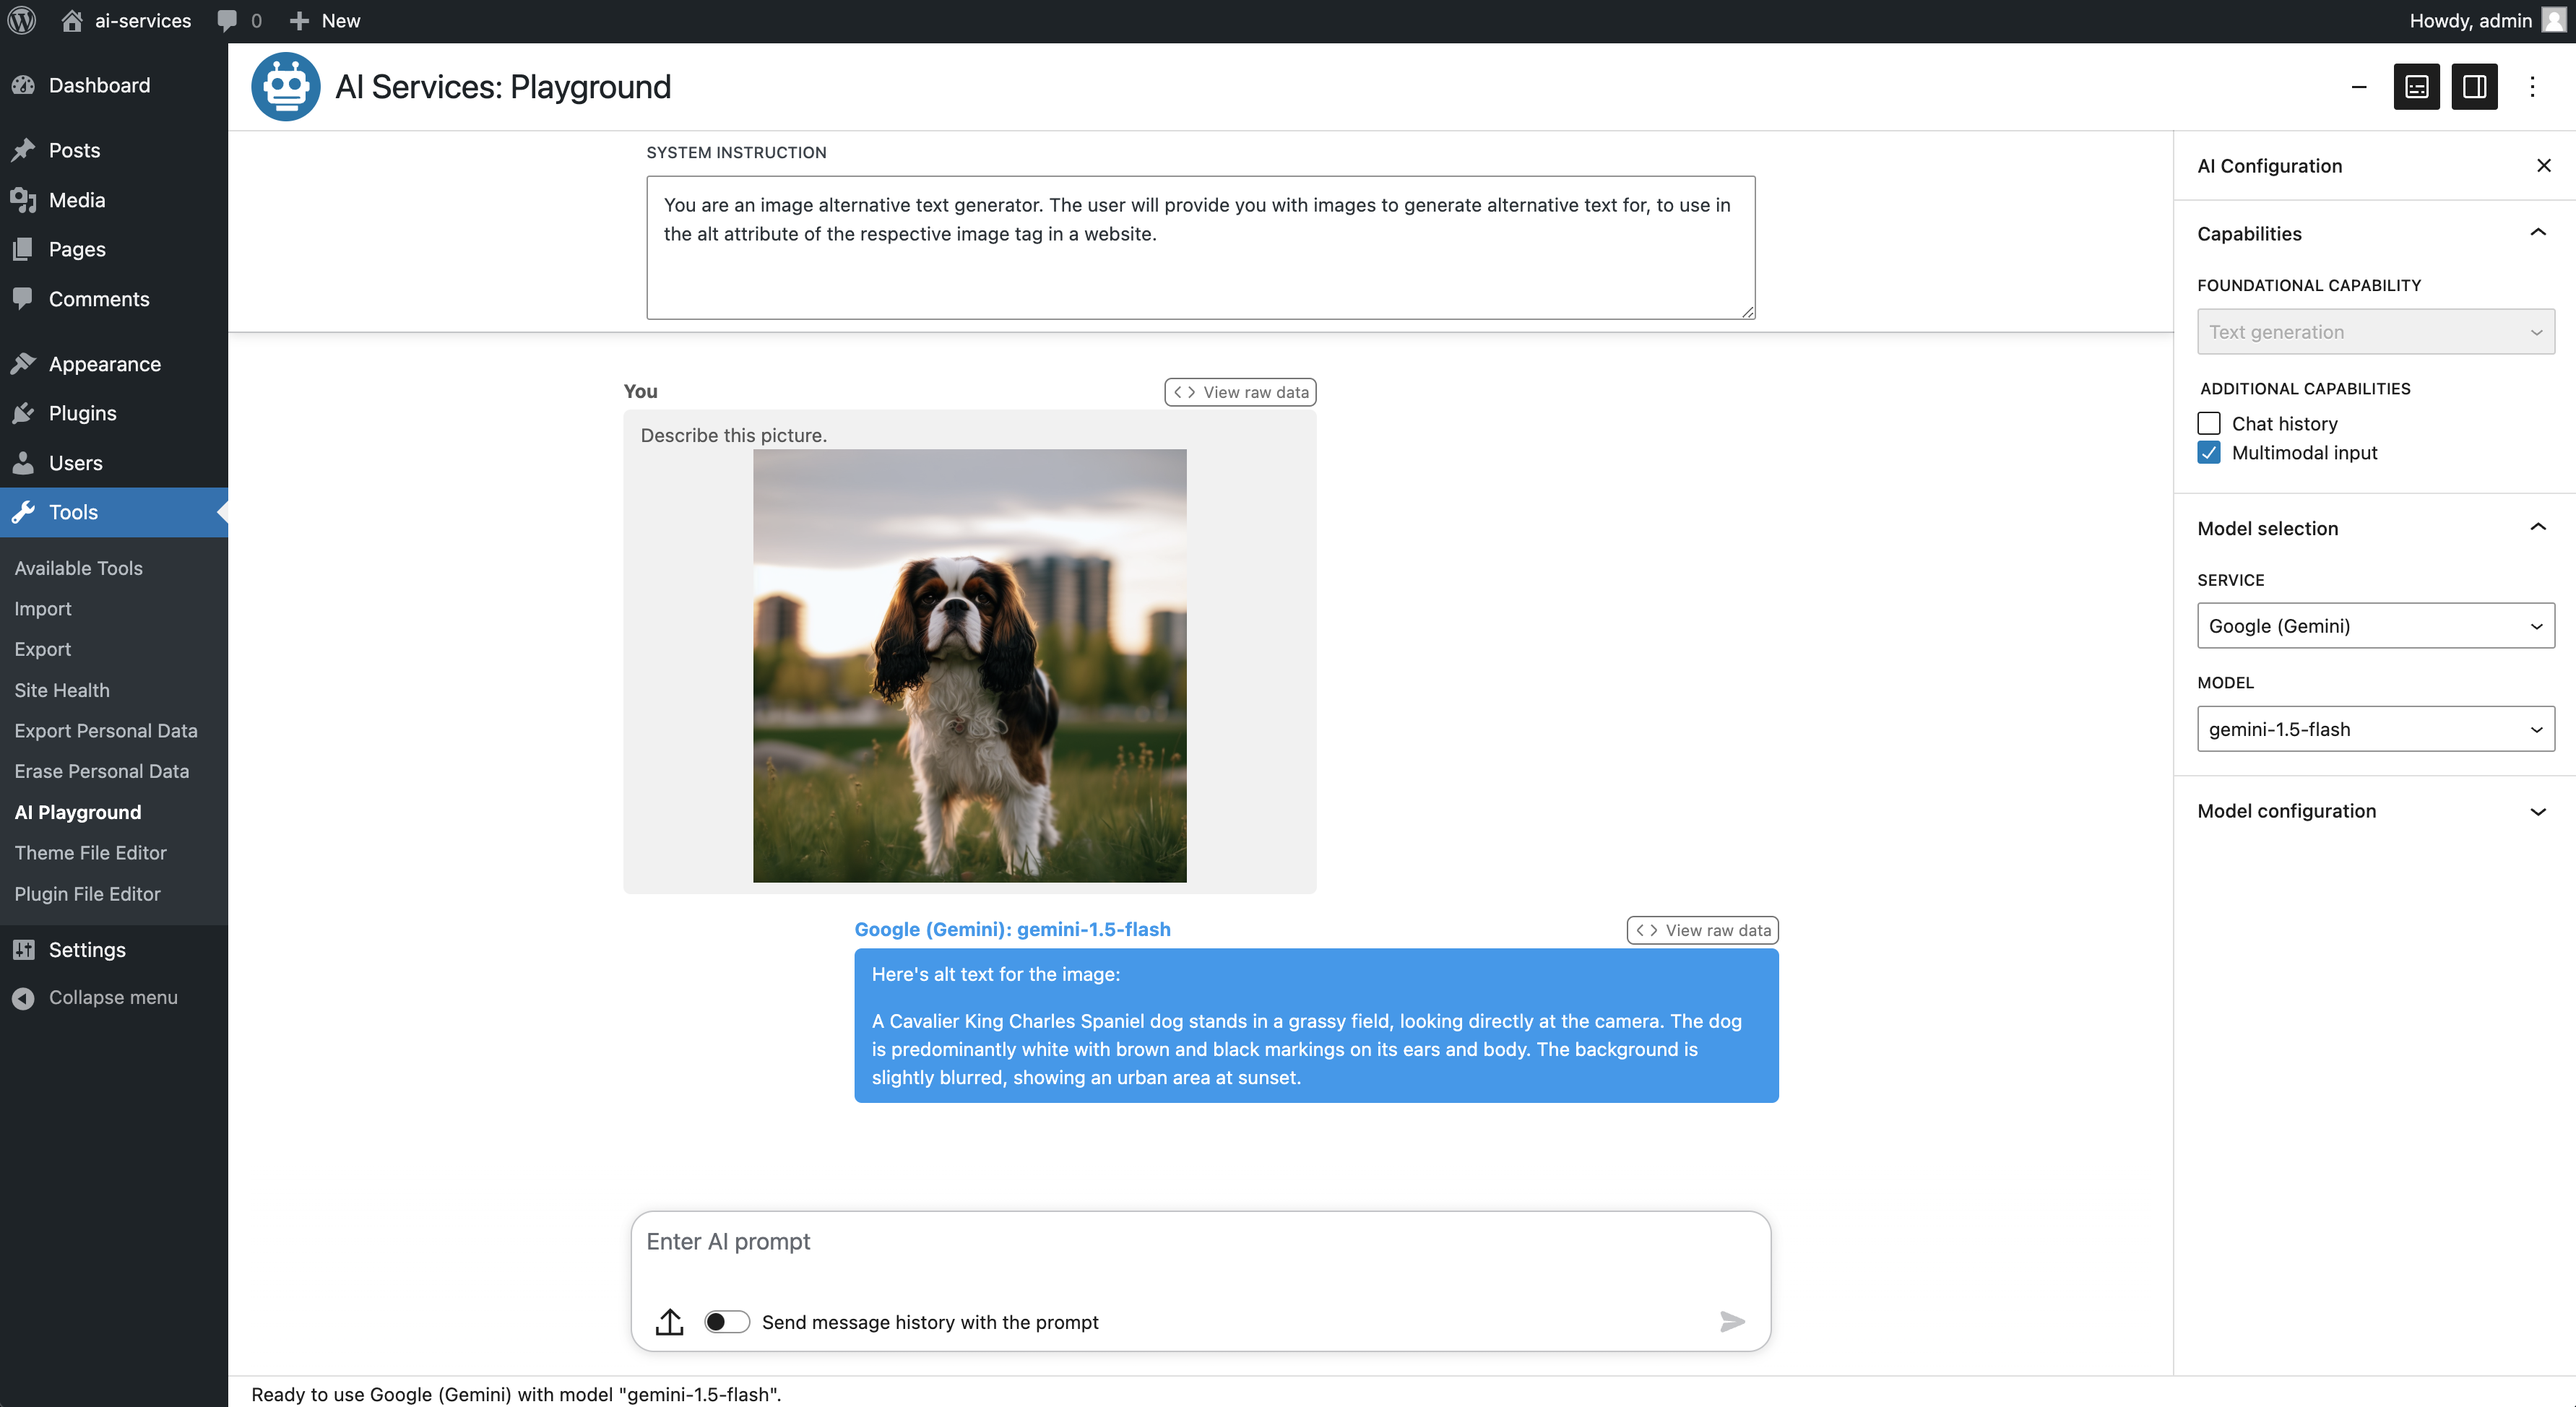
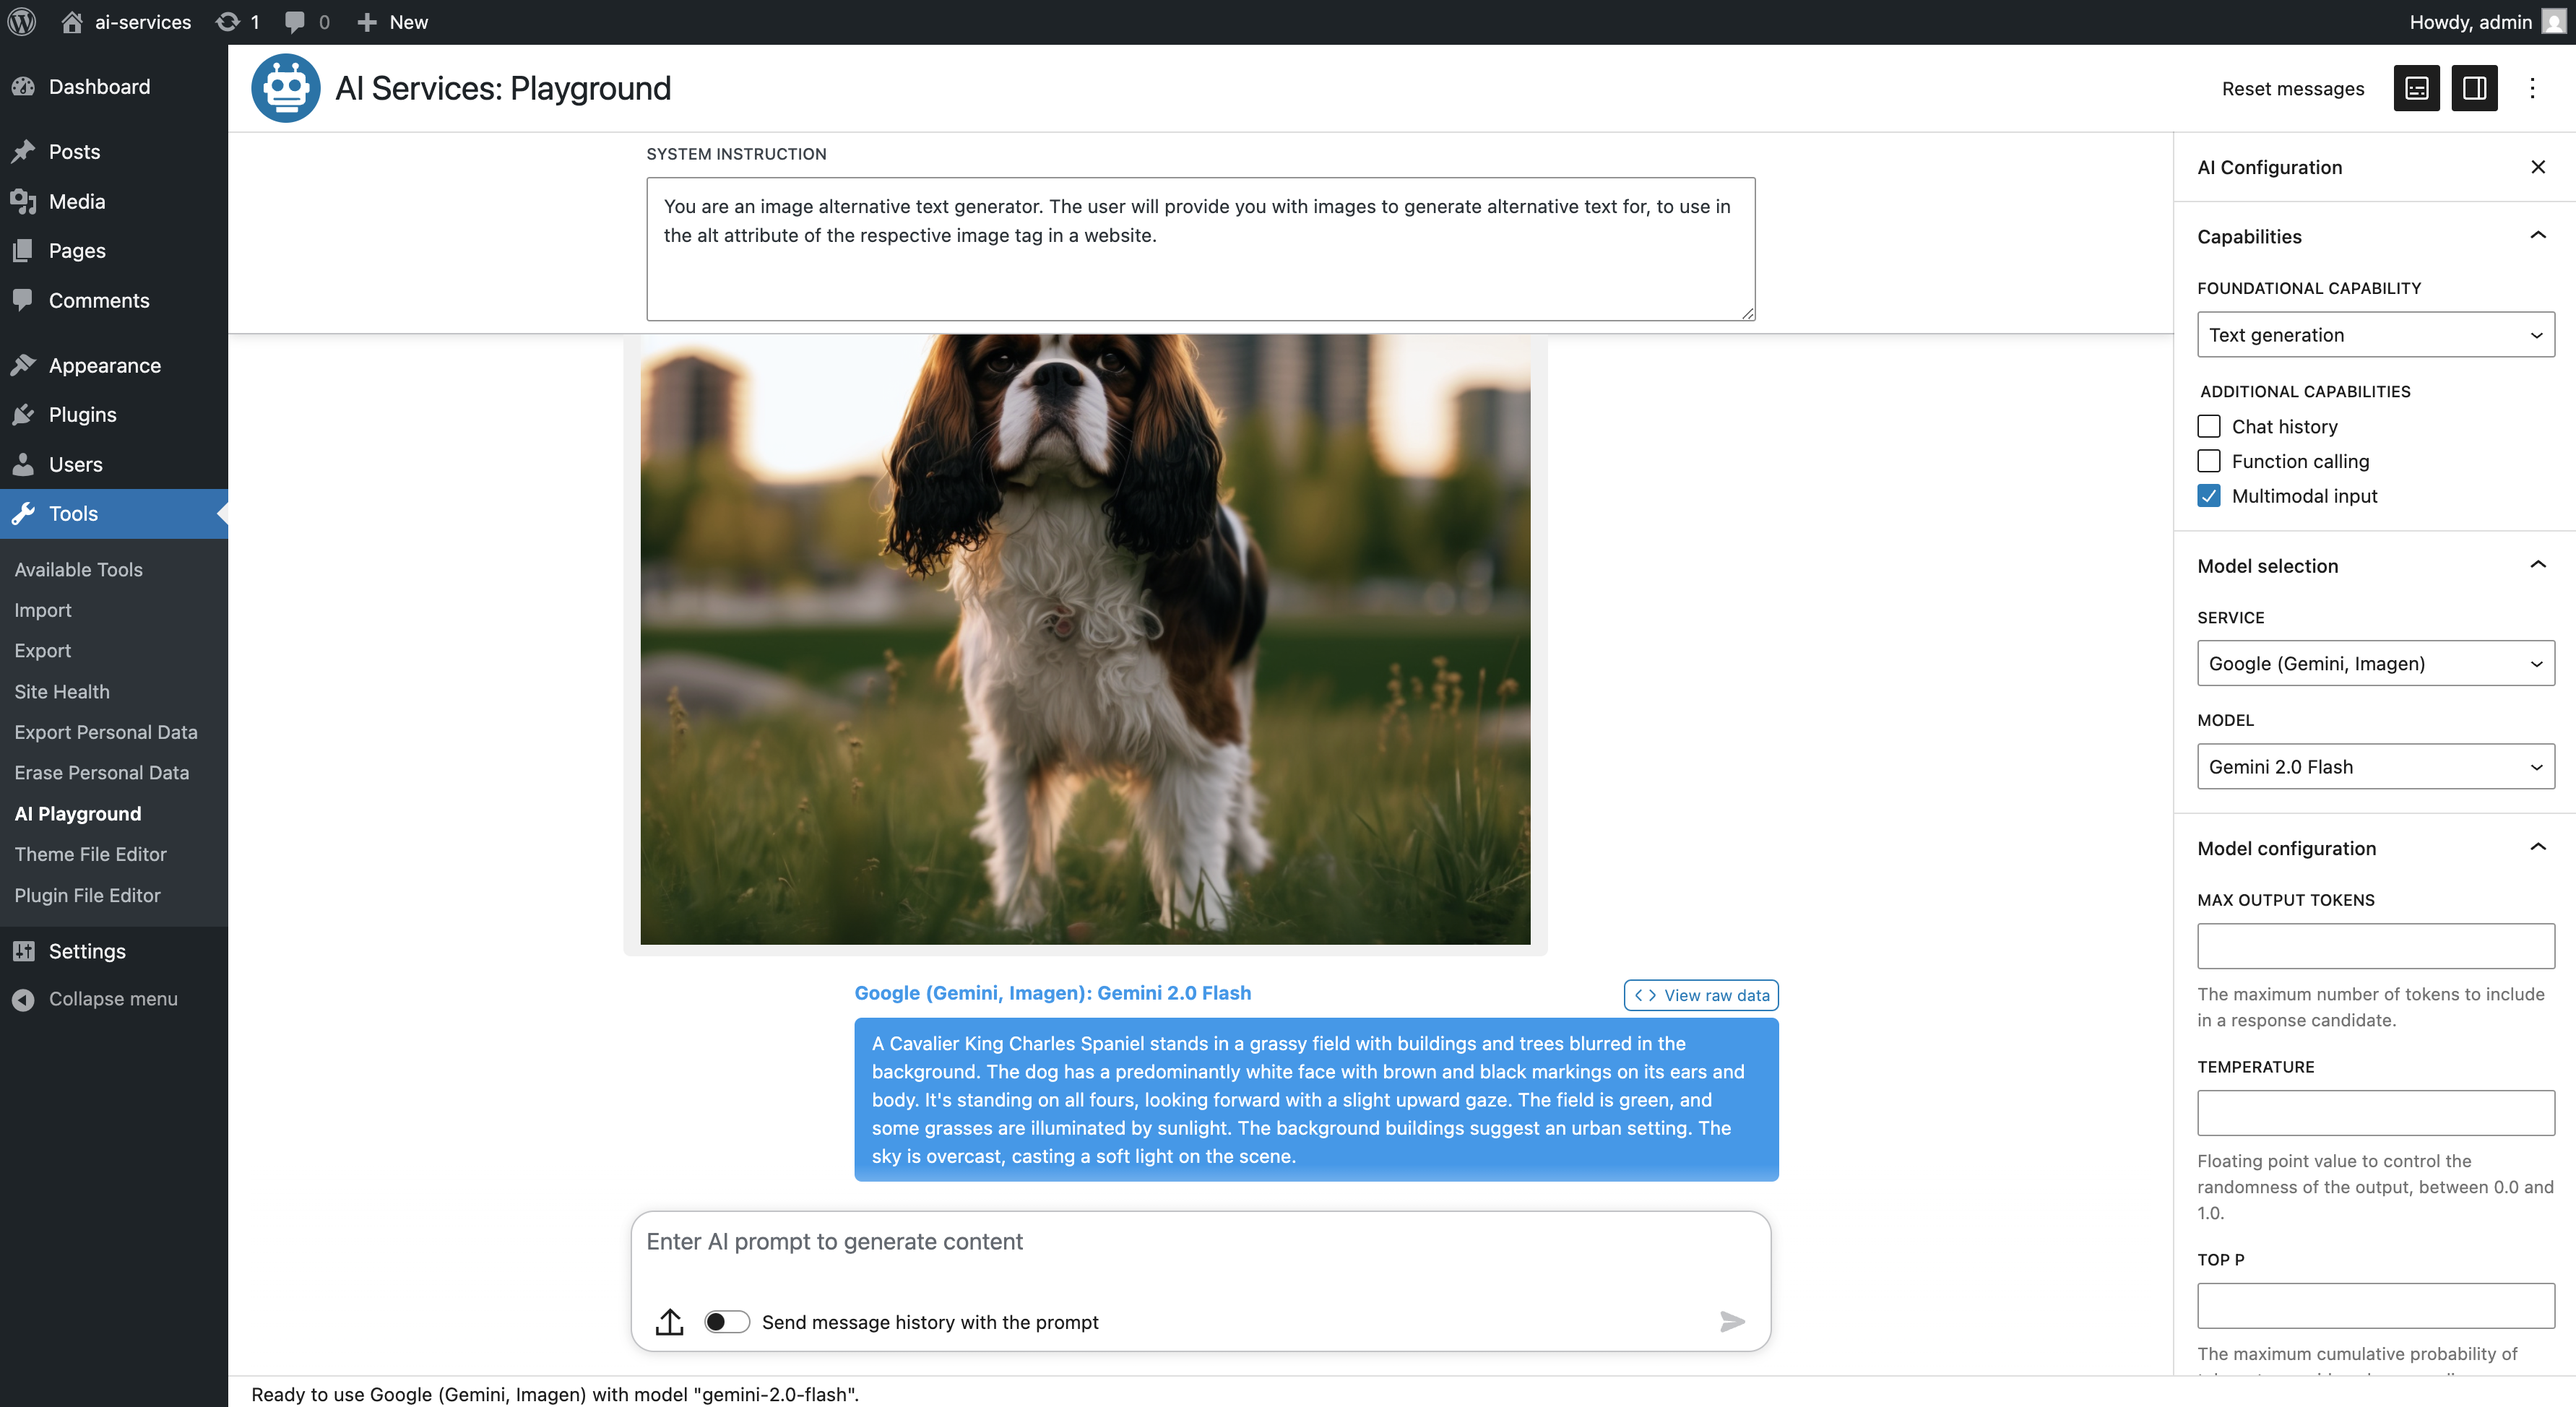
Update screenshots.

diff --git a/README.md b/README.md
@@ -4,7 +4,7 @@ Makes AI centrally available in WordPress, whether via PHP, REST API, JavaScript
 
 | AI Services: Settings screen | AI Services: Playground screen |
 | ------------- | ------------- |
-| ![The AI Services settings screen where users can paste their AI service credentials](https://raw.githubusercontent.com/felixarntz/ai-services/refs/heads/main/.wordpress-org/screenshot-1.png)  | ![The AI Playground where users can explore the AI capabilities of the different services](https://raw.githubusercontent.com/felixarntz/ai-services/refs/heads/main/.wordpress-org/screenshot-2.png)  |
+| ![The AI Services settings screen where users can paste their AI service credentials](https://raw.githubusercontent.com/felixarntz/ai-services/refs/heads/main/.wordpress-org/screenshot-1.png)  | ![Multimodal text generation in the AI Playground where users can explore the different AI model capabilities](https://raw.githubusercontent.com/felixarntz/ai-services/refs/heads/main/.wordpress-org/screenshot-2.png)  |
 
 This WordPress plugin introduces central infrastructure which allows other plugins to make use of AI capabilities. It exposes APIs that can be used in various contexts, whether you need to use AI capabilities in server-side or client-side code. Furthermore, the APIs are agnostic of the AI service - whether that's Anthropic, Google, or OpenAI, to only name a few, you can use any of them in the same way. You can also register your own implementation of another service, if it is not supported out of the box.
 
